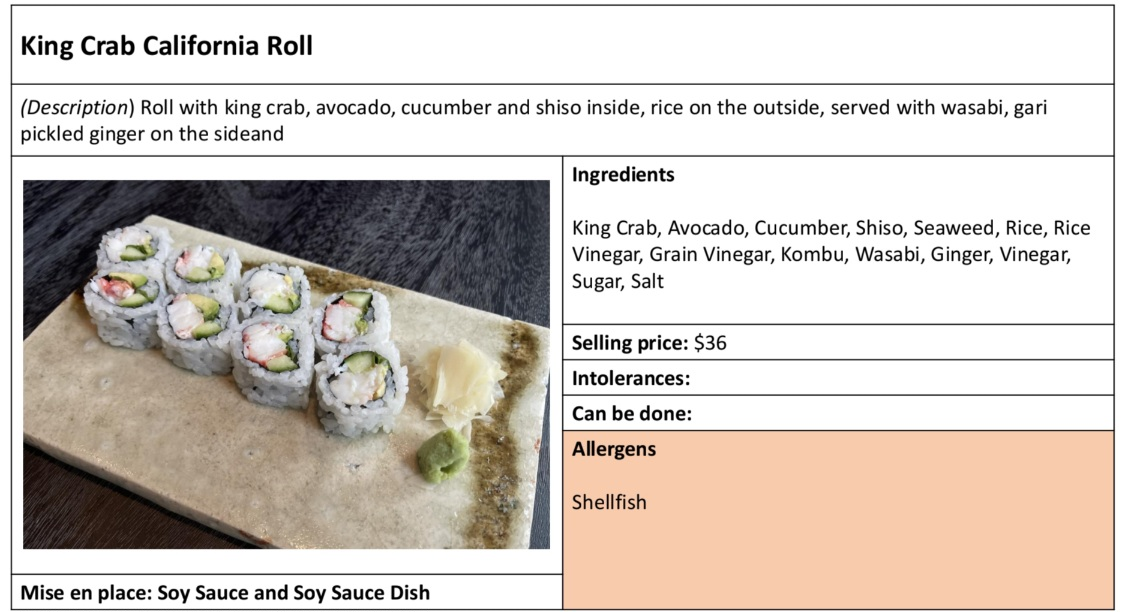
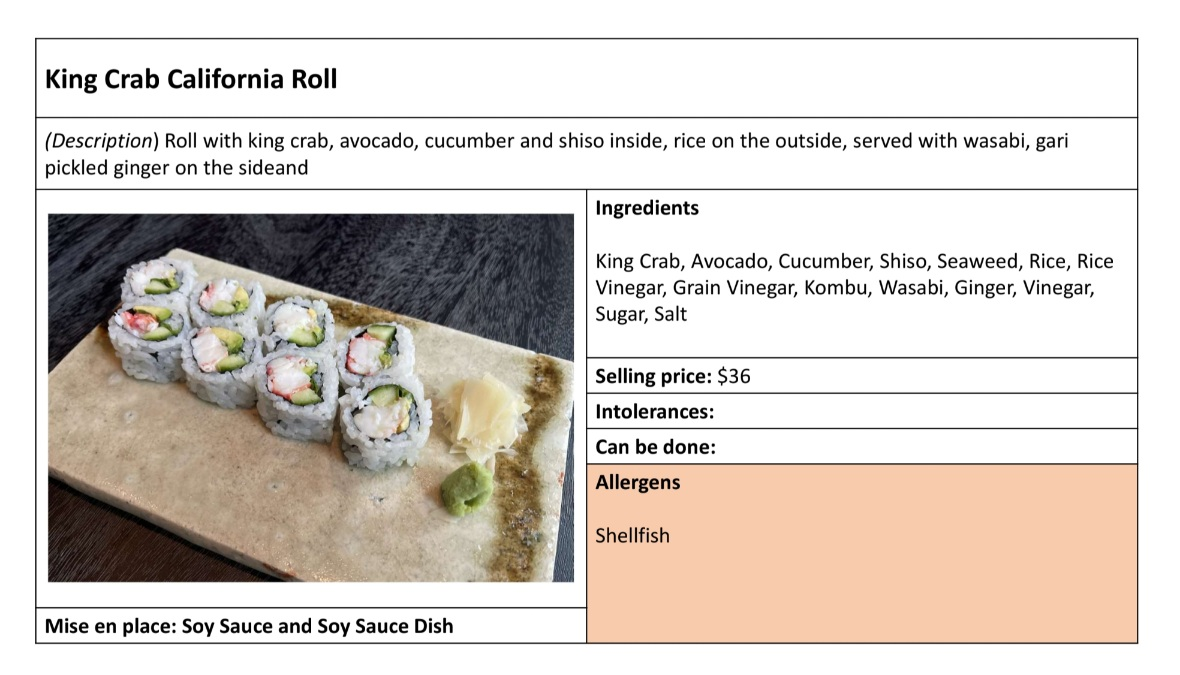
update pic: california roll

Changed region(s): [[0.0, 0.0, 0.9929, 1.0]]

diff --git a/app/manager/page.jsx b/app/manager/page.jsx
@@ -3149,7 +3149,7 @@ export default function ManagerDinnerPage() {
           <div className='modal-content'>
           
           <div>
-            <img src='california-roll.jpg' />
+            <img src={`california-roll.jpg?v={Date.now()}`} />
           </div>
           <div className='modal-text'>
                        

diff --git a/app/page.jsx b/app/page.jsx
@@ -3284,7 +3284,7 @@ appetizers, seasonal plates, and dessert.
           <div className='modal-content'>
           
           <div>
-            <img src='california-roll.jpg' />
+            <img src={`california-roll.jpg?v={Date.now()}`} />
           </div>
           <div className='modal-text'>
                        
